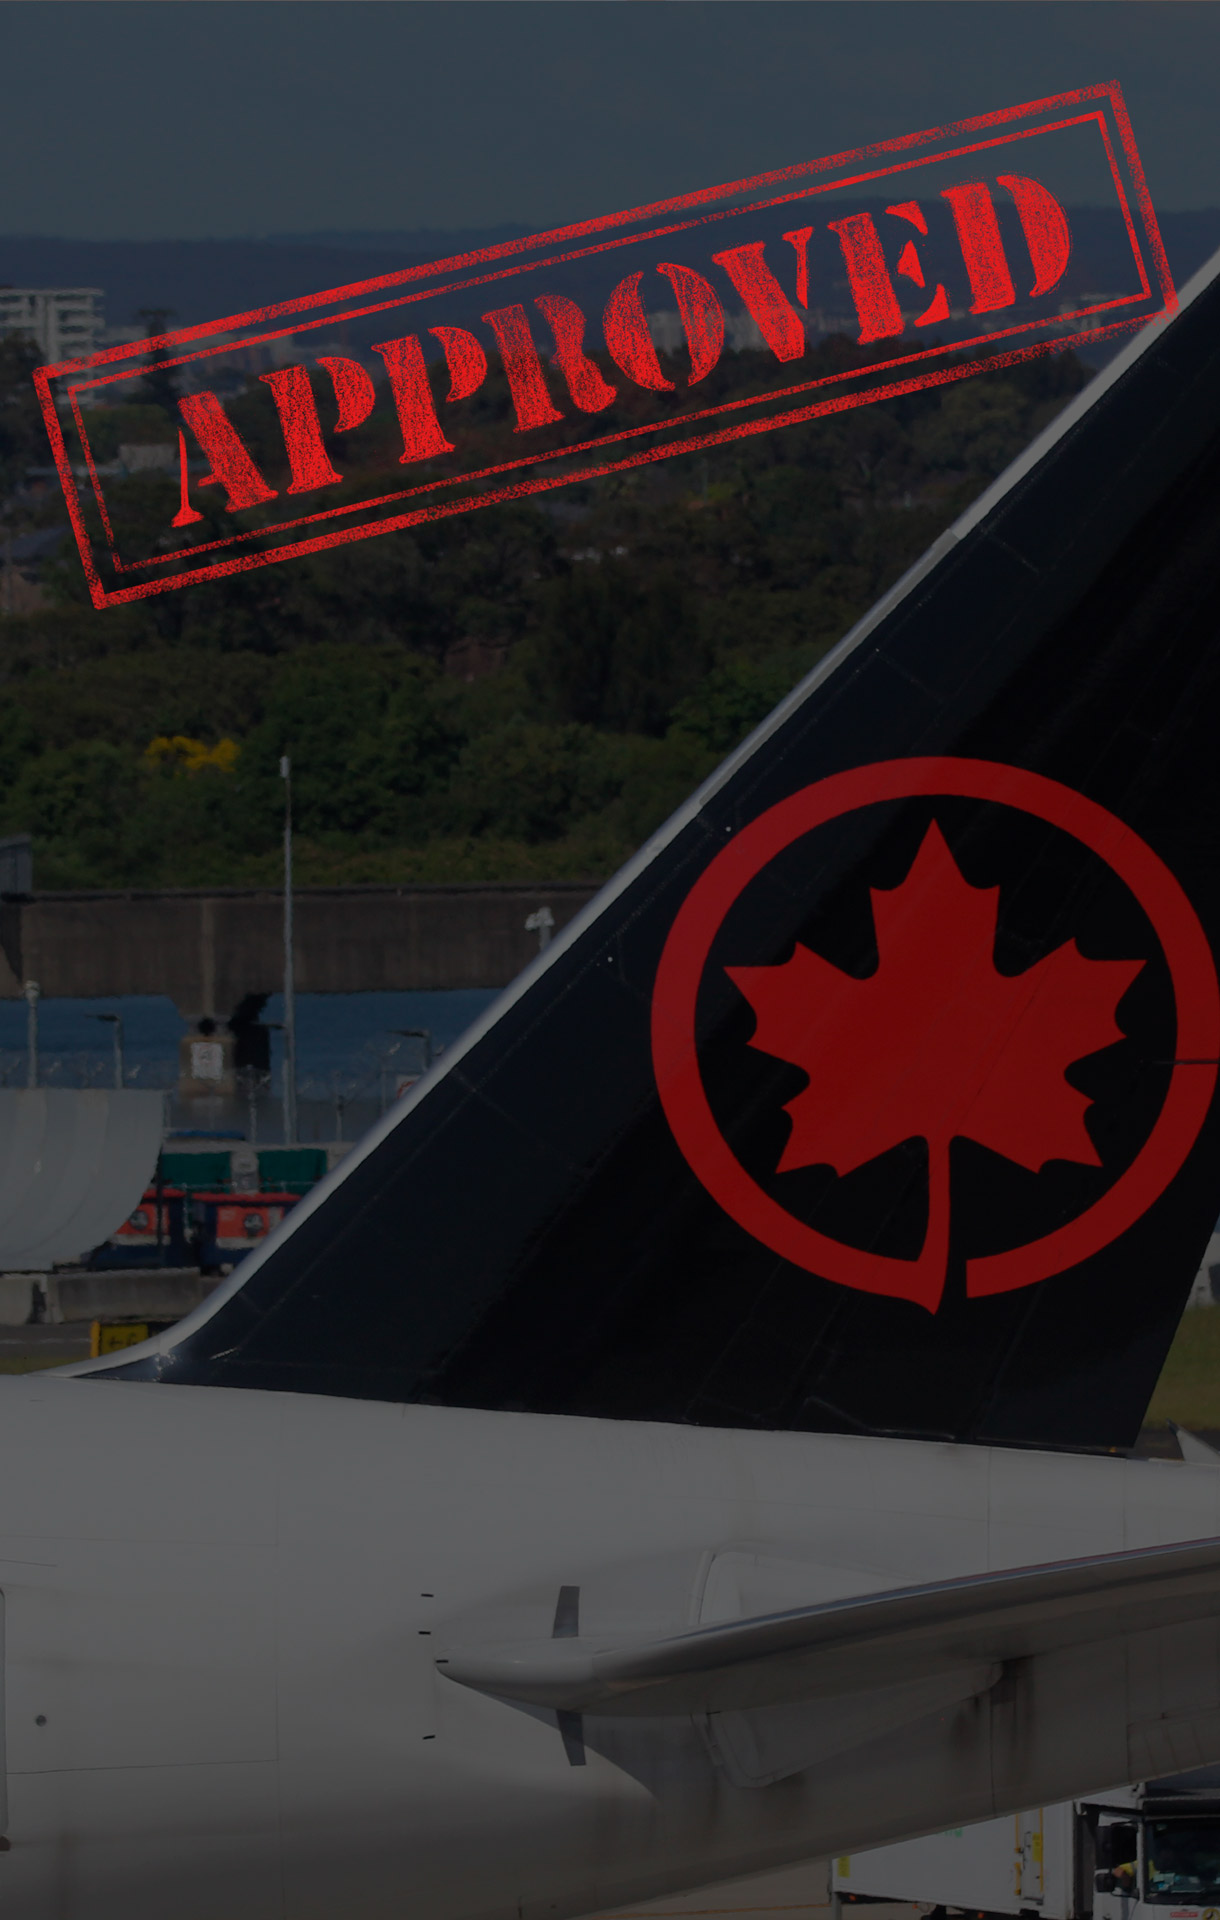
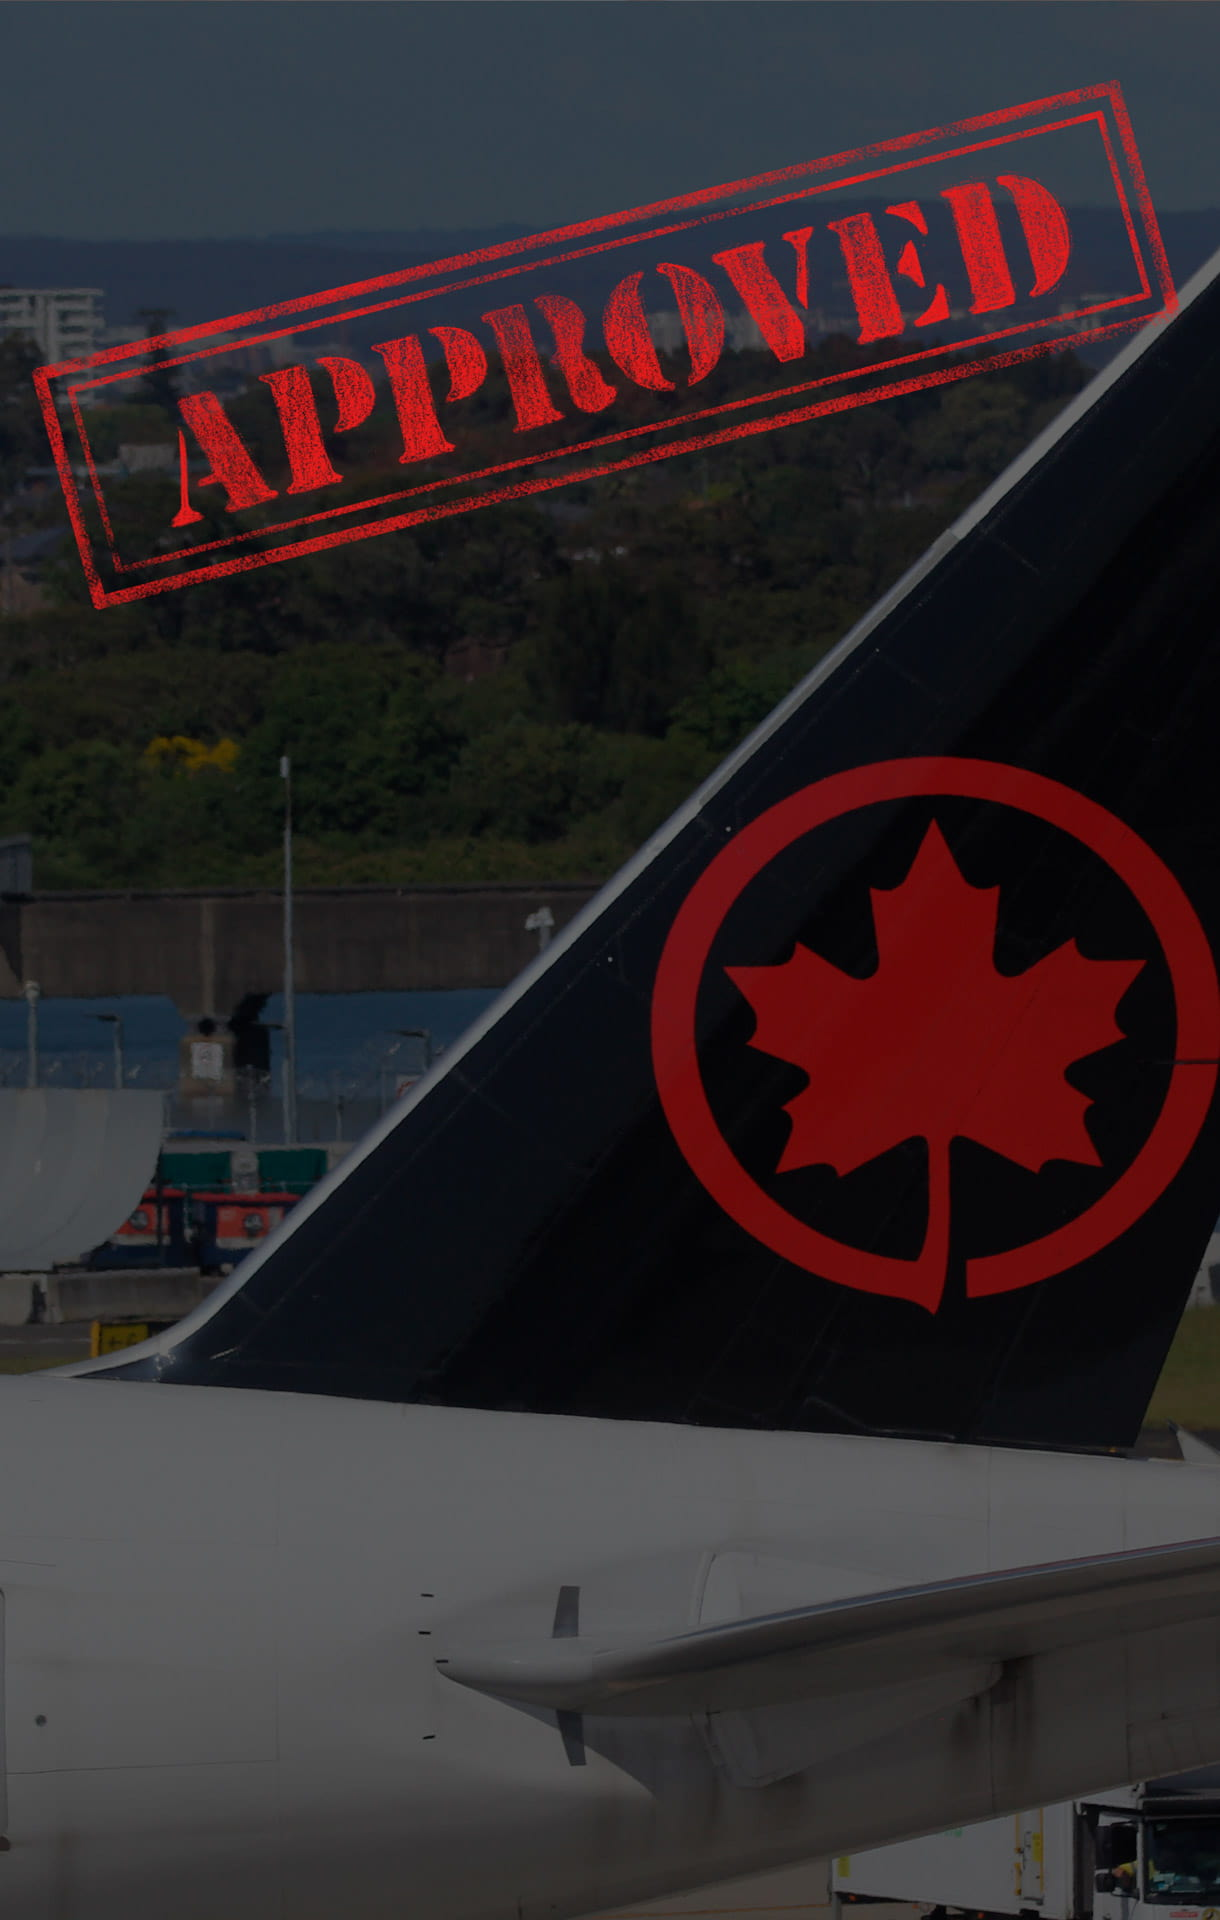
pics

diff --git a/scss/_rightside.scss b/scss/_rightside.scss
@@ -355,7 +355,7 @@
   width: 100%;
 }
 .slide2 {
-  background-image: url("../sourse/img/Right-background.png");
+  background-image: url("../sourse/img/Right-background.jpg");
   background-position: center;
   background-size: cover;
   height: 100vh;

diff --git a/css/main.css b/css/main.css
@@ -928,7 +928,7 @@ dialog {
 }
 
 .slide2 {
-  background-image: url("../sourse/img/Right-background.png");
+  background-image: url("../sourse/img/Right-background.jpg");
   background-position: center;
   background-size: cover;
   height: 100vh;
